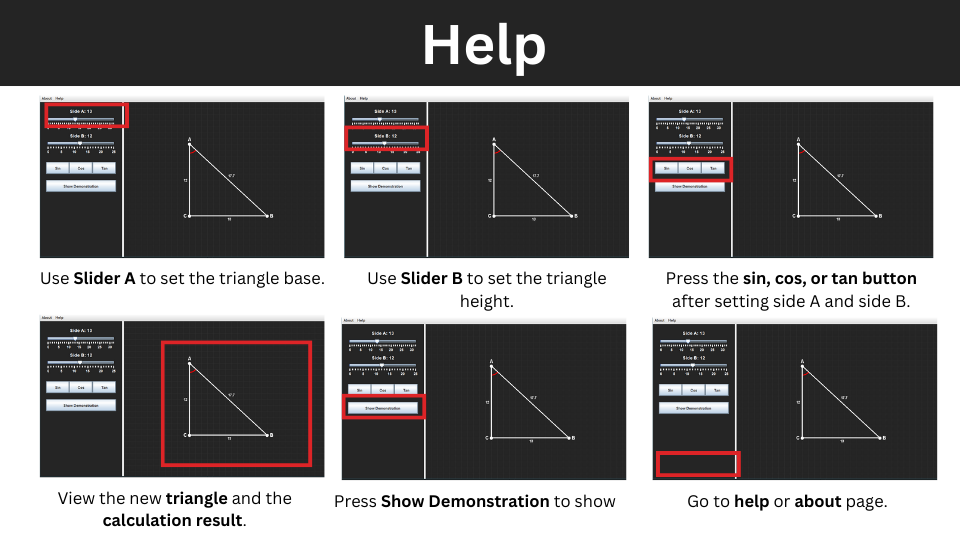
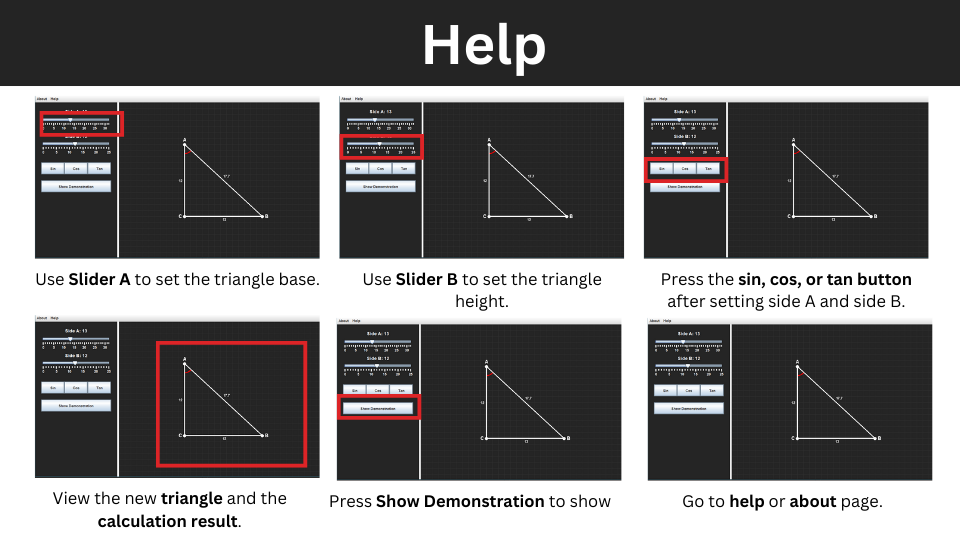
Changed alignment of help screen

diff --git a/helppanel.java b/helppanel.java
@@ -10,7 +10,7 @@ public class helppanel extends JPanel{
     BufferedImage imgHelp = null;
     //Methods
     public void paintComponent(Graphics g){
-        g.drawImage(imgHelp, -5, 0, null);
+        g.drawImage(imgHelp, 0, 0, null);
     }
     
     //Constructor
